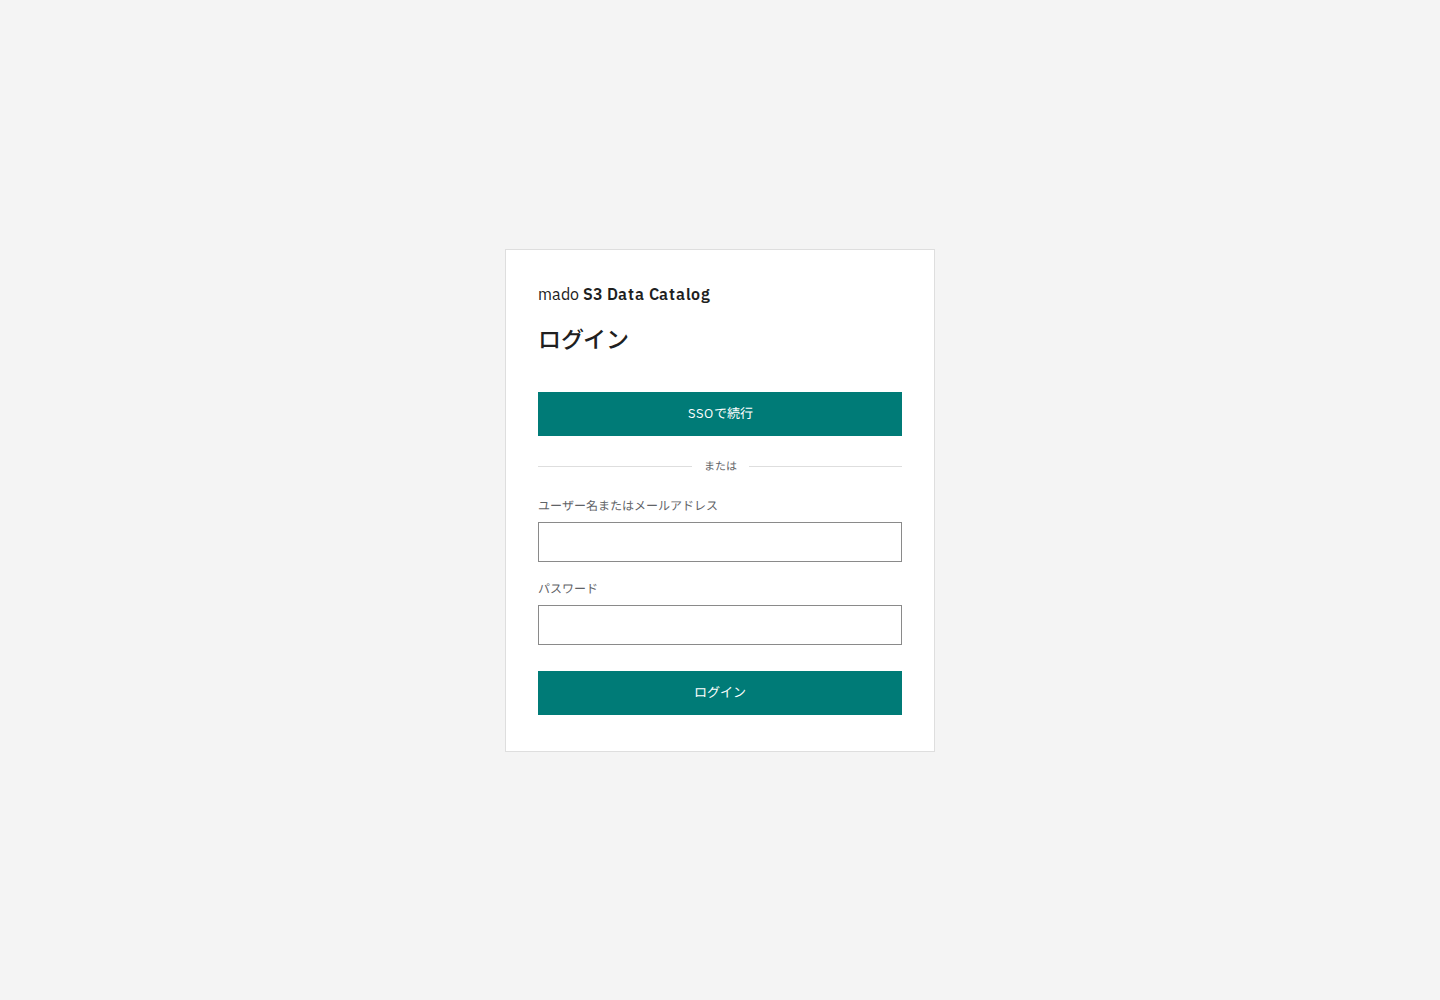
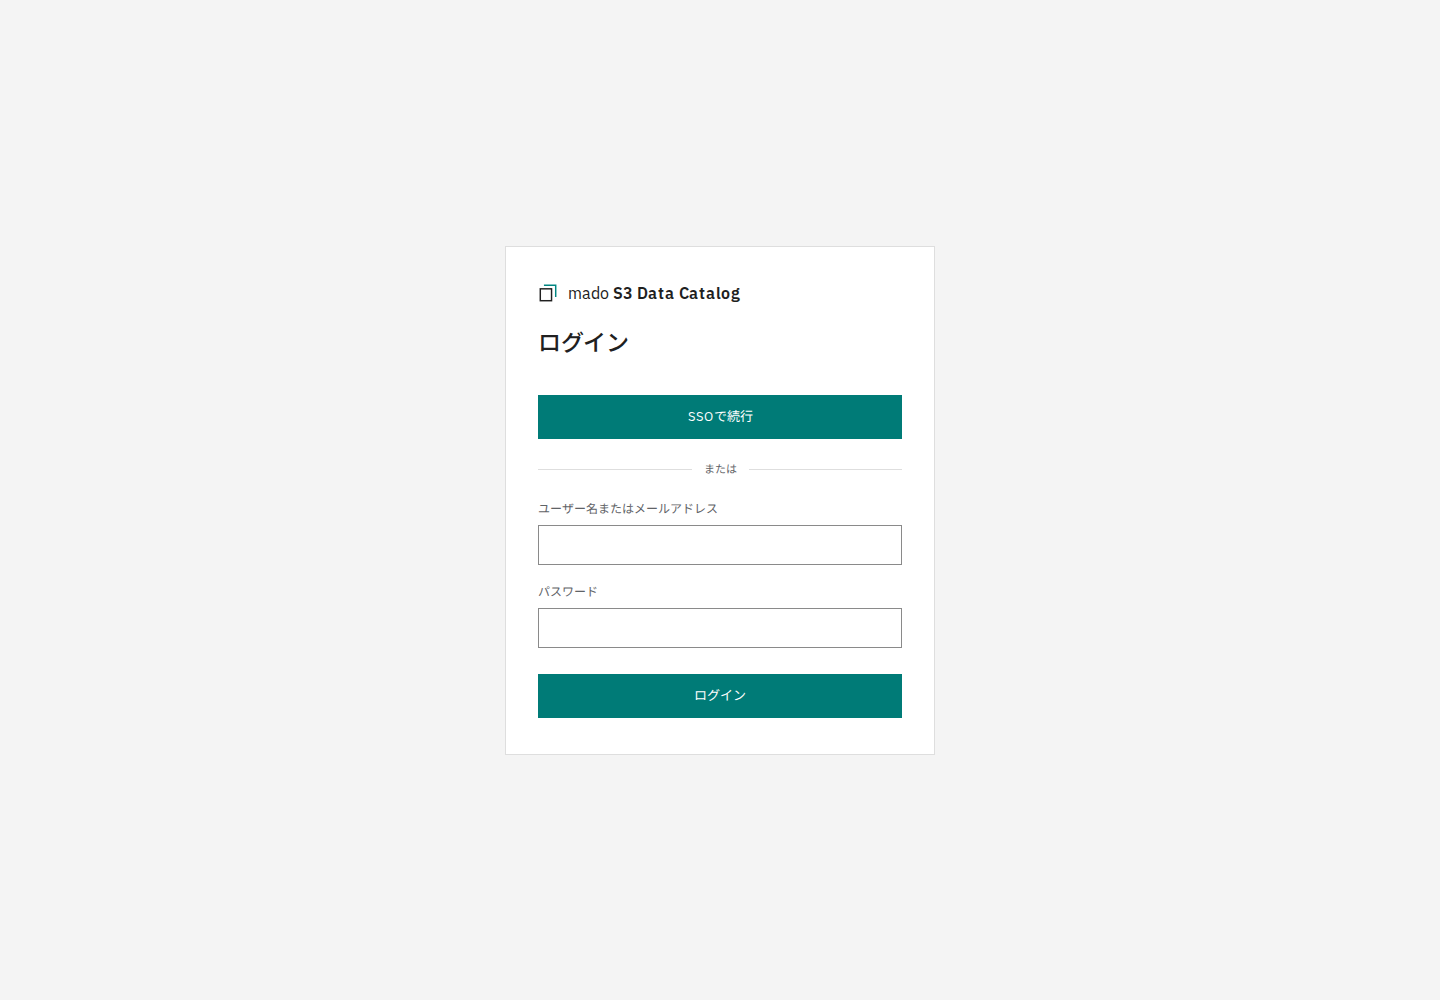
feat(front): 製品名の左に窓の印を置き、タブのアイコンも同じ形にする
重なった2つの窓の印を、手前の窓は文字と同じ色、奥の窓は強調色で描く。
黒い上部バーとドロワーでは奥の窓に上部バーの強調色を使う。印と名前は
components/shell/ProductLogo.tsxにまとめ、上部バー・スマホのメニュー・
ログイン画面・パスワード変更画面で同じ組み方にした。

ブラウザのタブのアイコンは同じ形のSVG（public/mado-icon.svg）にし、
16pxでも線が消えないよう太くして、タブの地に合わせて手前の窓の明暗を
切り替える。mado-icon.pngは黒い地に印を置いた180pxにし、apple-touch-icon
として使う。印の元にしたIcons8のアイコンのクレジットはREADMEに残した。
ドキュメントのスクリーンショット23枚を撮り直した。

diff --git a/front/styles/common.css b/front/styles/common.css
@@ -6,14 +6,40 @@
   margin: 0;
 }
 
-/* 製品名 (ProductName)。前の mado は通常の太さ、製品の部分は上部バーの .brand strong と同じ 600。
-   ログイン画面の .login-mark は全体が 600 なので、前の部分だけ通常の太さに戻す。 */
+/* 製品のロゴ (ProductLogo)。窓の印と名前を並べる。名前の前の mado は通常の太さ、製品の部分は
+   上部バーの .brand strong と同じ 600。ログイン画面の .login-mark は全体が 600 なので、
+   前の部分だけ通常の太さに戻す。 */
+.product-logo {
+  display: inline-flex;
+  align-items: center;
+  gap: 10px;
+}
 .product-prefix {
   font-weight: 400;
 }
 .navigation-drawer-header strong,
 .login-mark strong {
   font-weight: 600;
+}
+/* 印の大きさは名前の文字 (14〜16px) より一回り大きく、線は手前と奥で同じ太さ。 */
+.product-mark {
+  flex: none;
+  width: 20px;
+  height: 20px;
+  fill: none;
+  stroke-width: 1.75;
+}
+.product-mark-front {
+  stroke: currentColor;
+}
+/* 奥の窓の色。黒い上部バーとドロワーでは、上部バーの印と同じ明るい強調色を使う。 */
+.product-mark-back {
+  stroke: var(--accent);
+  stroke-linecap: square;
+}
+.brand .product-mark-back,
+.navigation-drawer-header .product-mark-back {
+  stroke: var(--header-indicator);
 }
 
 /* 同期プレイヤーとピン留め (BottomDock) が画面の下に出ている間は、本文の下端が隠れないよう

diff --git a/front/pages/LoginPage.tsx b/front/pages/LoginPage.tsx
@@ -1,5 +1,5 @@
 import { useState, type FormEvent } from 'react'
-import { ProductName } from '../components/shell/ProductName'
+import { ProductLogo } from '../components/shell/ProductLogo'
 import { fetchApi } from '../lib/api/http'
 
 /** ログイン画面とパスワード変更画面の見出しの id。重ねて出すときの dialog の名前にも使う。 */
@@ -56,7 +56,7 @@ export function LoginPage({
   return (
     <main className="login-page">
       <section className="login-card" aria-labelledby={AUTH_TITLE_ID}>
-        <div className="login-mark"><ProductName /></div>
+        <div className="login-mark"><ProductLogo /></div>
         <h1 id={AUTH_TITLE_ID}>ログイン</h1>
         {(sessionExpired || idpLogoutIncomplete || overlay) && (
           <div className="login-lead">
@@ -134,7 +134,7 @@ export function ChangePasswordPage({ onChanged }: { onChanged(): Promise<void> }
   return (
     <main className="login-page">
       <section className="login-card" aria-labelledby={AUTH_TITLE_ID}>
-        <div className="login-mark"><ProductName /></div>
+        <div className="login-mark"><ProductLogo /></div>
         <p className="login-eyebrow">First sign-in</p>
         <h1 id={AUTH_TITLE_ID}>パスワードを変更</h1>
         <div className="login-lead"><p>初回ログイン用パスワードはこの画面で更新してください。</p></div>

diff --git a/front/components/shell/ProductLogo.tsx b/front/components/shell/ProductLogo.tsx
@@ -1,0 +1,33 @@
+/**
+ * 製品のロゴ。重なった2つの窓の印と、製品名「mado S3 Data Catalog」を並べる。
+ * 名前は IBM の製品名と同じく、前の mado を通常の太さ、製品の部分を太字にする。
+ * 上部バー・ドロワー・ログイン画面で同じ組み方にそろえる。
+ */
+export const PRODUCT_PREFIX = 'mado'
+export const PRODUCT_NAME = 'S3 Data Catalog'
+/** 読み上げやタブの題名など、太さを付けられない場所で使う表記。 */
+export const PRODUCT_FULL_NAME = `${PRODUCT_PREFIX} ${PRODUCT_NAME}`
+
+/**
+ * 重なった2つの窓の印。手前の窓は文字と同じ色、奥の窓は強調色で描く。
+ * 形はブラウザのタブのアイコン (public/mado-icon.svg) と同じ。色は common.css の .product-mark。
+ */
+export function MadoMark() {
+  return (
+    <svg className="product-mark" viewBox="0 0 24 24" aria-hidden="true" focusable="false">
+      <path className="product-mark-back" d="M8 2.75H21.25V16" />
+      <rect className="product-mark-front" x="2.75" y="7" width="13.5" height="14.25" />
+    </svg>
+  )
+}
+
+export function ProductLogo() {
+  return (
+    <span className="product-logo">
+      <MadoMark />
+      <span>
+        <span className="product-prefix">{PRODUCT_PREFIX}</span> <strong>{PRODUCT_NAME}</strong>
+      </span>
+    </span>
+  )
+}

diff --git a/front/components/shell/TopBar.tsx b/front/components/shell/TopBar.tsx
@@ -6,7 +6,7 @@ import { initials } from '../../lib/initials'
 import type { Navigation } from '../../lib/useNavigation'
 import { useTheme } from '../../lib/useTheme'
 import { NavigationDrawer } from './NavigationDrawer'
-import { PRODUCT_FULL_NAME, ProductName } from './ProductName'
+import { PRODUCT_FULL_NAME, ProductLogo } from './ProductLogo'
 
 /**
  * 上部バー: アプリ名、テーマの切り替え、ログイン中の利用者とサインアウト。画面の切り替えは
@@ -34,7 +34,7 @@ export function TopBar({ navigation }: { navigation: Navigation }) {
       <a className="skip-link" href="#content">本文へ移動</a>
       <header className="topbar">
         {navigation.mode === 'drawer' && <NavigationDrawer />}
-        <Link to="/" className="brand" aria-label={`${PRODUCT_FULL_NAME} ホームへ`}><ProductName /></Link>
+        <Link to="/" className="brand" aria-label={`${PRODUCT_FULL_NAME} ホームへ`}><ProductLogo /></Link>
         <div className="topbar-actions">
           <button
             type="button"

diff --git a/front/components/shell/ProductLogo.test.tsx b/front/components/shell/ProductLogo.test.tsx
@@ -1,0 +1,17 @@
+import { describe, expect, it } from 'vitest'
+import { render } from '@testing-library/react'
+import { PRODUCT_FULL_NAME, ProductLogo } from './ProductLogo'
+
+describe('ProductLogo', () => {
+  it('窓の印に続けて、mado と太字の S3 Data Catalog を表示する', () => {
+    const { container } = render(<p><ProductLogo /></p>)
+    expect(container.textContent).toBe(PRODUCT_FULL_NAME)
+    expect(container.querySelector('strong')?.textContent).toBe('S3 Data Catalog')
+    expect(container.querySelector('.product-prefix')?.textContent).toBe('mado')
+  })
+
+  it('印は読み上げない', () => {
+    const { container } = render(<ProductLogo />)
+    expect(container.querySelector('svg')?.getAttribute('aria-hidden')).toBe('true')
+  })
+})

diff --git a/front/components/shell/NavigationDrawer.tsx b/front/components/shell/NavigationDrawer.tsx
@@ -1,7 +1,7 @@
 import { useEffect, useId, useRef, useState, type MouseEvent } from 'react'
 import { Menu, X } from 'lucide-react'
 import { NavigationLinkList } from './NavigationLinkList'
-import { ProductName } from './ProductName'
+import { ProductLogo } from './ProductLogo'
 
 /**
  * md (900px) 未満の画面の切り替え。上部バーのメニューボタンで左からドロワーを開く。
@@ -49,7 +49,7 @@ export function NavigationDrawer() {
       >
         <div className="navigation-drawer-panel">
           <div className="navigation-drawer-header">
-            <span><ProductName /></span>
+            <ProductLogo />
             <button
               type="button"
               className="icon-button"

diff --git a/front/index.html b/front/index.html
@@ -2,7 +2,8 @@
 <html lang="ja">
   <head>
     <meta charset="UTF-8" />
-    <link rel="icon" type="image/png" href="/mado-icon.png" />
+    <link rel="icon" type="image/svg+xml" href="/mado-icon.svg" />
+    <link rel="apple-touch-icon" href="/mado-icon.png" />
     <meta name="viewport" content="width=device-width, initial-scale=1.0" />
     <meta name="color-scheme" content="light dark" />
     <title>mado S3 Data Catalog</title>

diff --git a/README.md b/README.md
@@ -445,7 +445,7 @@ npm install https://github.com/aida0710/mado-design-systems/releases/download/v<
 
 ## クレジット
 
-- ロゴ (`front/public/mado-icon.png`): "Window" icon by [Inmotus Design](https://icons8.com/icon/set/window/external-others-inmotus-design) on [Icons8](https://icons8.com/)。Icons8 の無料利用規約により attribution を明記。
+- ロゴ: "Window" icon by [Inmotus Design](https://icons8.com/icon/set/window/external-others-inmotus-design) on [Icons8](https://icons8.com/)。Icons8 の無料利用規約により attribution を明記。ドキュメントサイトの `pages/public/mado-icon.png` はこのアイコンのまま。画面の印とタブのアイコン（`front/components/shell/ProductLogo.tsx`、`front/public/mado-icon.svg`・`mado-icon.png`）は、この形をもとに線で描き直したもの。
 - 書体: [IBM Plex](https://github.com/IBM/plex) (`@mado/design-system` に同梱) と [Noto Sans JP](https://fonts.google.com/noto/specimen/Noto+Sans+JP)。どちらも SIL Open Font License 1.1。
 - アイコン: [Lucide](https://lucide.dev/) (`lucide-react`)。ISC License。
 - テキストの色付け: [highlight.js](https://highlightjs.org/)。BSD 3-Clause License。
